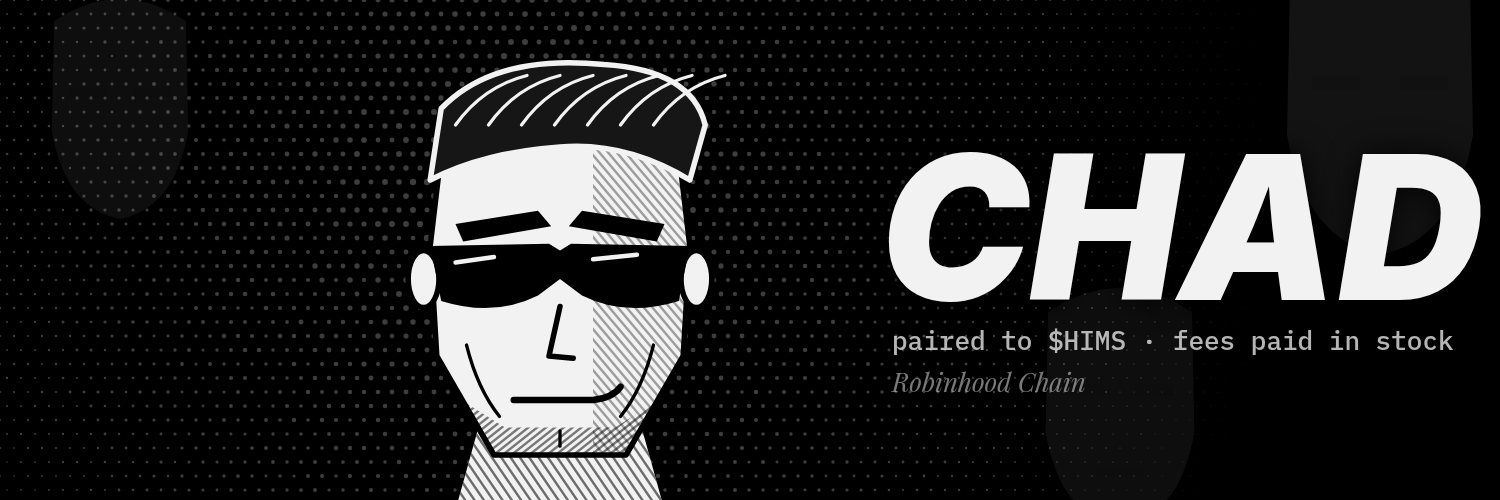
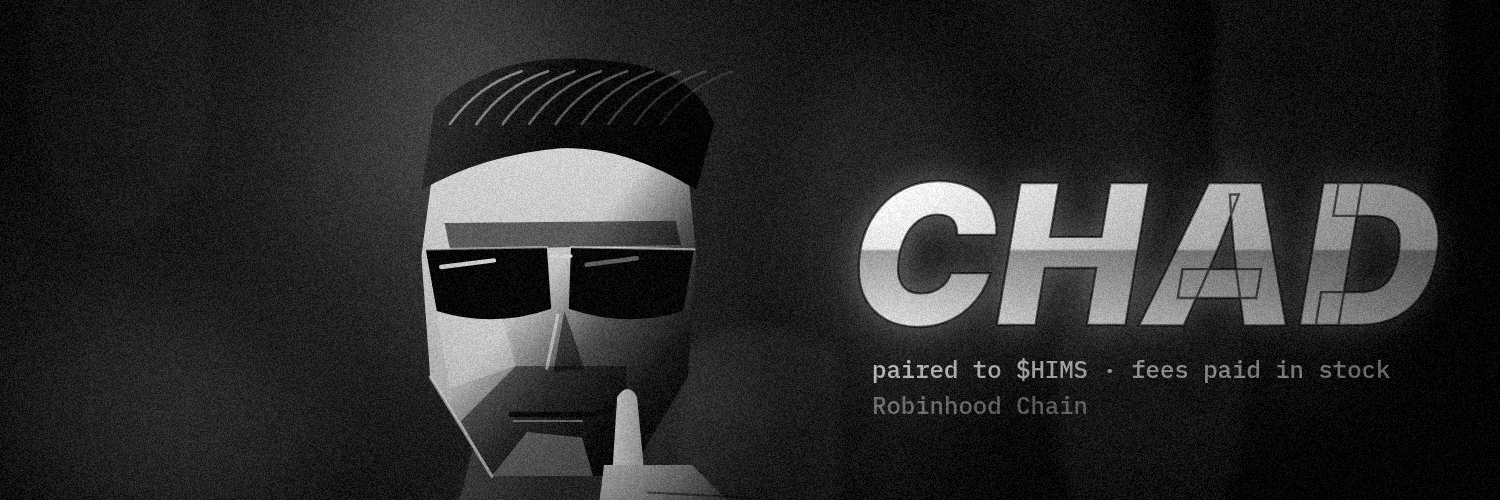
site v2: new art, stock pairing section, meme gallery

diff --git a/index.html b/index.html
@@ -33,12 +33,15 @@ a{color:var(--ink)}
 #loader .t{font-family:Plex,monospace;color:var(--muted);font-size:13px;letter-spacing:.1em}
 main{position:relative;z-index:1}
 .wrap{max-width:1060px;margin:0 auto;padding:0 24px}
-nav{display:flex;align-items:center;justify-content:space-between;padding:22px 0}
+nav{display:flex;flex-direction:column;align-items:center;gap:16px;padding:26px 0 10px}
 nav .brand{font-weight:900;font-style:italic;font-size:28px;letter-spacing:-.03em;display:flex;align-items:center;gap:10px}
 nav .brand img{width:34px;height:34px;border-radius:50%}
-nav .links a{color:var(--muted);text-decoration:none;margin-left:22px;font-size:15px;font-weight:500}
-nav .links a:hover{color:var(--ink)}
-.hero{display:grid;grid-template-columns:1fr 1fr;gap:30px;align-items:center;padding:30px 0 70px}
+nav .links{display:flex;flex-wrap:wrap;justify-content:center;gap:8px}
+nav .links a{color:var(--ink);text-decoration:none;font-size:14px;font-weight:700;font-style:italic;padding:9px 18px;border:1px solid var(--line);background:var(--panel);transition:background .12s,color .12s}
+nav .links a:hover{background:var(--ink);color:#000}
+nav .links a.primary{background:var(--ink);color:#000;border-color:var(--ink)}
+nav .links a.primary.off{opacity:.4;pointer-events:none}
+.hero{display:grid;grid-template-columns:1fr 1fr;gap:30px;align-items:center;padding:40px 0 70px}
 .hero h1{font-weight:900;font-style:italic;font-size:clamp(90px,15vw,190px);line-height:.85;margin:0 0 14px;letter-spacing:-.05em}
 .hero .tag{font-family:Plex,monospace;color:var(--ink2);font-size:16px;margin:0 0 22px}
 .hero .tag b{color:var(--ink);font-weight:500}
@@ -57,6 +60,15 @@ h2{font-weight:900;font-style:italic;font-size:clamp(38px,6vw,64px);margin:0 0 1
 .card h3{margin:0 0 8px;font-size:19px;font-weight:900;font-style:italic}
 .card p{margin:0;color:var(--ink2);font-size:15.5px}
 .card .k{font-family:Plex,monospace;color:var(--muted);font-size:12px;letter-spacing:.1em;text-transform:uppercase;margin-bottom:14px}
+/* stock steps */
+.steps{display:grid;grid-template-columns:1fr 1fr;gap:16px}
+.note{font-family:Plex,monospace;color:var(--muted);font-size:13px;max-width:720px;margin:24px 0 0;line-height:1.6}
+/* gallery */
+.gal{display:grid;grid-template-columns:repeat(3,1fr);gap:16px}
+.meme{display:block;text-decoration:none;color:var(--ink);background:var(--panel);border:1px solid var(--line);transition:transform .15s,border-color .15s}
+.meme:hover{transform:translateY(-4px);border-color:var(--ink)}
+.meme img{display:block;width:100%;aspect-ratio:4/3;object-fit:cover}
+.meme span{display:block;padding:12px 14px;font-family:Plex,monospace;font-size:13px;color:var(--ink2)}
 /* protocol */
 .proto{display:grid;grid-template-columns:1fr 300px;gap:18px}
 .list{background:var(--panel);border:1px solid var(--line)}
@@ -98,7 +110,7 @@ details p{color:var(--ink2);margin:10px 0 0;max-width:680px}
 .end{padding:70px 0 90px;text-align:center}
 .end .big{font-weight:900;font-style:italic;font-size:clamp(70px,14vw,180px);line-height:.85;letter-spacing:-.06em}
 .end .q{font-family:Playfair,serif;font-style:italic;color:var(--muted);font-size:20px;margin-top:14px}
-@media(max-width:820px){.hero{grid-template-columns:1fr;padding-top:0}.hero img{max-width:280px;order:-1}.grid3,.tok,.proto{grid-template-columns:1fr}nav .links a{margin-left:14px;font-size:14px}}
+@media(max-width:820px){.hero{grid-template-columns:1fr;padding-top:0}.hero img{max-width:280px;order:-1}.grid3,.tok,.proto{grid-template-columns:1fr}nav .links a{padding:8px 12px;font-size:13px}.gal{grid-template-columns:1fr}.steps{grid-template-columns:1fr}}
 @media(prefers-reduced-motion:reduce){*{animation:none!important;transition:none!important}}
 </style>
 </head>
@@ -109,7 +121,7 @@ details p{color:var(--ink2);margin:10px 0 0;max-width:680px}
 <div class="wrap">
 <nav>
   <div class="brand"><img src="assets/favicon-64.png" alt="">CHAD</div>
-  <div class="links"><a href="#how">How it works</a><a href="#protocol">Protocol</a><a href="#lore">Lore</a><a href="#token">Token</a><a href="#faq">FAQ</a><a id="xlink" href="#" target="_blank" rel="noopener">X</a></div>
+  <div class="links"><a id="navbuy" class="primary off" href="#">Buy CHAD</a><a href="#how">How it works</a><a href="#stocks">Stock pairing</a><a href="#protocol">Protocol</a><a href="#lore">Lore</a><a href="#memes">Memes</a><a href="#token">Token</a><a href="#faq">FAQ</a><a id="xlink" href="#" target="_blank" rel="noopener">X</a></div>
 </nav>
 
 <div class="hero">
@@ -125,7 +137,7 @@ details p{color:var(--ink2);margin:10px 0 0;max-width:680px}
 
 <section id="how"><div class="wrap">
   <h2>How it works</h2>
-  <p class="sub">Three mechanics. No hidden ones.</p>
+  <p class="sub">One pool, one pair, one place the fees go. Everything else is memes.</p>
   <div class="grid3">
     <div class="card"><div class="k">Pair</div><h3>CHAD / $HIMS</h3><p>CHAD trades against tokenized Hims &amp; Hers stock on Robinhood Chain. One pool, one pair.</p></div>
     <div class="card"><div class="k">Fees</div><h3>Paid in $HIMS</h3><p>Every trade on the pair generates fees, and those fees are paid out in $HIMS — the tokenized share — not in CHAD.</p></div>
@@ -133,9 +145,21 @@ details p{color:var(--ink2);margin:10px 0 0;max-width:680px}
   </div>
 </div></section>
 
+<section id="stocks"><div class="wrap">
+  <h2>How stock pairing works</h2>
+  <p class="sub">Robinhood Chain puts real stocks on-chain as tokens. CHAD is built on top of one of them.</p>
+  <div class="steps">
+    <div class="card"><div class="k">Step 1 · The stock token</div><h3>$HIMS exists on-chain</h3><p>Robinhood issues tokenized stocks on Robinhood Chain, its Ethereum L2. The $HIMS token tracks the price of Hims &amp; Hers stock. It is a token that follows the share price — not a share certificate, and it carries no voting rights.</p></div>
+    <div class="card"><div class="k">Step 2 · The pair</div><h3>CHAD is priced in $HIMS</h3><p>Instead of a CHAD / ETH pool, the liquidity pool is CHAD / $HIMS. Buying CHAD means swapping tokenized Hims stock for it. Selling CHAD hands you tokenized Hims stock back.</p></div>
+    <div class="card"><div class="k">Step 3 · The fees</div><h3>Every swap pays in the stock</h3><p>Each trade on the pair takes a small fee. On a stock-paired coin that fee is collected in the paired stock token, so the pool's earnings accumulate as $HIMS rather than as more CHAD.</p></div>
+    <div class="card"><div class="k">Step 4 · What that means</div><h3>Volume turns into stock exposure</h3><p>The more CHAD trades, the more $HIMS the fee side accrues. A memecoin whose fee stream is a tokenized company, not a token it printed itself. If Hims moves, the fee pile moves with it — up or down.</p></div>
+  </div>
+  <p class="note">Plain-English version, not a prospectus. Tokenized stocks are not the same as owning shares, prices can go to zero, and CHAD is a memecoin. Read Robinhood Chain's own docs before you trade anything.</p>
+</div></section>
+
 <section id="protocol"><div class="wrap">
   <h2>Daily Chad Protocol</h2>
-  <p class="sub">Six things. Tick them off. Your streak is saved on this device only — nobody else sees it.</p>
+  <p class="sub">Six habits, reset every midnight. Tick them off, build a streak. Saved on this device only — nobody else sees it.</p>
   <div class="proto">
     <div class="list" id="list"></div>
     <div class="meter">
@@ -149,7 +173,7 @@ details p{color:var(--ink2);margin:10px 0 0;max-width:680px}
 
 <section id="lore"><div class="wrap">
   <h2>Insane Hims lore</h2>
-  <p class="sub">The company behind the ticker, in order. Every line links to its source.</p>
+  <p class="sub">The company behind the ticker, in order, from subway eggplants to an FDA warning letter. Every line links to its source.</p>
   <div class="tl">
     <div class="ev"><div class="d">NOV 2017</div><h3>Built inside a startup factory</h3><p>Hims wasn't founded in a garage. It was assembled inside Atomic, a San Francisco venture studio co-founded by Andrew Dudum and Jack Abraham, with $7M of seed money. First products: generic Viagra and generic Propecia for millennial men. <a href="https://en.wikipedia.org/wiki/Hims_%26_Hers_Health" target="_blank" rel="noopener">source</a></p></div>
     <div class="ev"><div class="d">2018</div><h3>The eggplant-and-cactus subway ads</h3><p>It got famous by plastering New York subways with eggplants and wilting cacti — ED and hair loss without ever saying the words. Bloomberg called it "the startup of eggplant-and-cactus subway ad fame." <a href="https://twitter.com/ellenhuet/status/1019620241062662144" target="_blank" rel="noopener">source</a></p></div>
@@ -161,9 +185,19 @@ details p{color:var(--ink2);margin:10px 0 0;max-width:680px}
   </div>
 </div></section>
 
+<section id="memes"><div class="wrap">
+  <h2>Memes</h2>
+  <p class="sub">Original CHAD art, free to post. Save them, crop them, put your own captions on them.</p>
+  <div class="gal">
+    <a class="meme" href="memes/lambo.png" target="_blank" rel="noopener"><img src="memes/lambo.png" alt="CHAD driving a low black-and-white supercar, speed lines behind him"><span>Driving. Fees paid in $HIMS.</span></a>
+    <a class="meme" href="memes/gym.png" target="_blank" rel="noopener"><img src="memes/gym.png" alt="CHAD pressing a barbell overhead in the gym"><span>Gym. The jaw is built overnight.</span></a>
+    <a class="meme" href="memes/money.png" target="_blank" rel="noopener"><img src="memes/money.png" alt="CHAD at a table fanning out bills with stacks of cash and bills falling"><span>Counting. In $HIMS.</span></a>
+  </div>
+</div></section>
+
 <section id="token"><div class="wrap">
   <h2>Token</h2>
-  <p class="sub">These fields fill in at launch. Until then they stay empty — no placeholder numbers.</p>
+  <p class="sub">Contract, pool and chart appear here the moment CHAD deploys. Until then the fields stay empty — no placeholder numbers, ever.</p>
   <div class="tok">
     <div class="card">
       <div class="row"><b>Name</b><span>CHAD</span></div>
@@ -183,6 +217,7 @@ details p{color:var(--ink2);margin:10px 0 0;max-width:680px}
 
 <section id="faq"><div class="wrap">
   <h2>FAQ</h2>
+  <p class="sub">Short answers. If yours isn't here, ask on X.</p>
   <details open><summary>What does "paired to $HIMS" mean?</summary><p>The liquidity pool is CHAD against tokenized Hims &amp; Hers stock on Robinhood Chain. Trading fees on the pair are paid out in $HIMS, not in CHAD.</p></details>
   <details><summary>Is this affiliated with Hims &amp; Hers?</summary><p>No. CHAD is a community memecoin. Hims &amp; Hers did not make it, endorse it, or hear about it. The timeline above is public record.</p></details>
   <details><summary>Where is the contract?</summary><p>There isn't one yet. The address, pool and chart links appear in the Token section the moment it deploys, and are posted as the first reply to the launch tweet.</p></details>
@@ -205,7 +240,7 @@ const DATA = {}; // no live numbers pre-launch
 (function(){
   const $=id=>document.getElementById(id);
   if(CONFIG.x){$('xlink').href=CONFIG.x}
-  if(CONFIG.pool){$('pool').href=CONFIG.pool;$('pool').classList.remove('off');$('buy').href=CONFIG.pool;$('buy').classList.remove('off');$('pool-short').textContent='open';$('pool-short').classList.remove('zero')}
+  if(CONFIG.pool){$('pool').href=CONFIG.pool;$('pool').classList.remove('off');$('buy').href=CONFIG.pool;$('buy').classList.remove('off');$('navbuy').href=CONFIG.pool;$('navbuy').classList.remove('off');$('pool-short').textContent='open';$('pool-short').classList.remove('zero')}
   if(CONFIG.chart){$('chart').href=CONFIG.chart;$('chart').classList.remove('off')}
   if(CONFIG.ca){$('ca').textContent=CONFIG.ca;$('ca').classList.add('live');$('ca-short').textContent=CONFIG.ca.slice(0,6)+'…'+CONFIG.ca.slice(-4);$('ca-short').classList.remove('zero');
     $('ca').onclick=()=>{navigator.clipboard&&navigator.clipboard.writeText(CONFIG.ca);$('ca').textContent='copied';setTimeout(()=>$('ca').textContent=CONFIG.ca,900)}}
